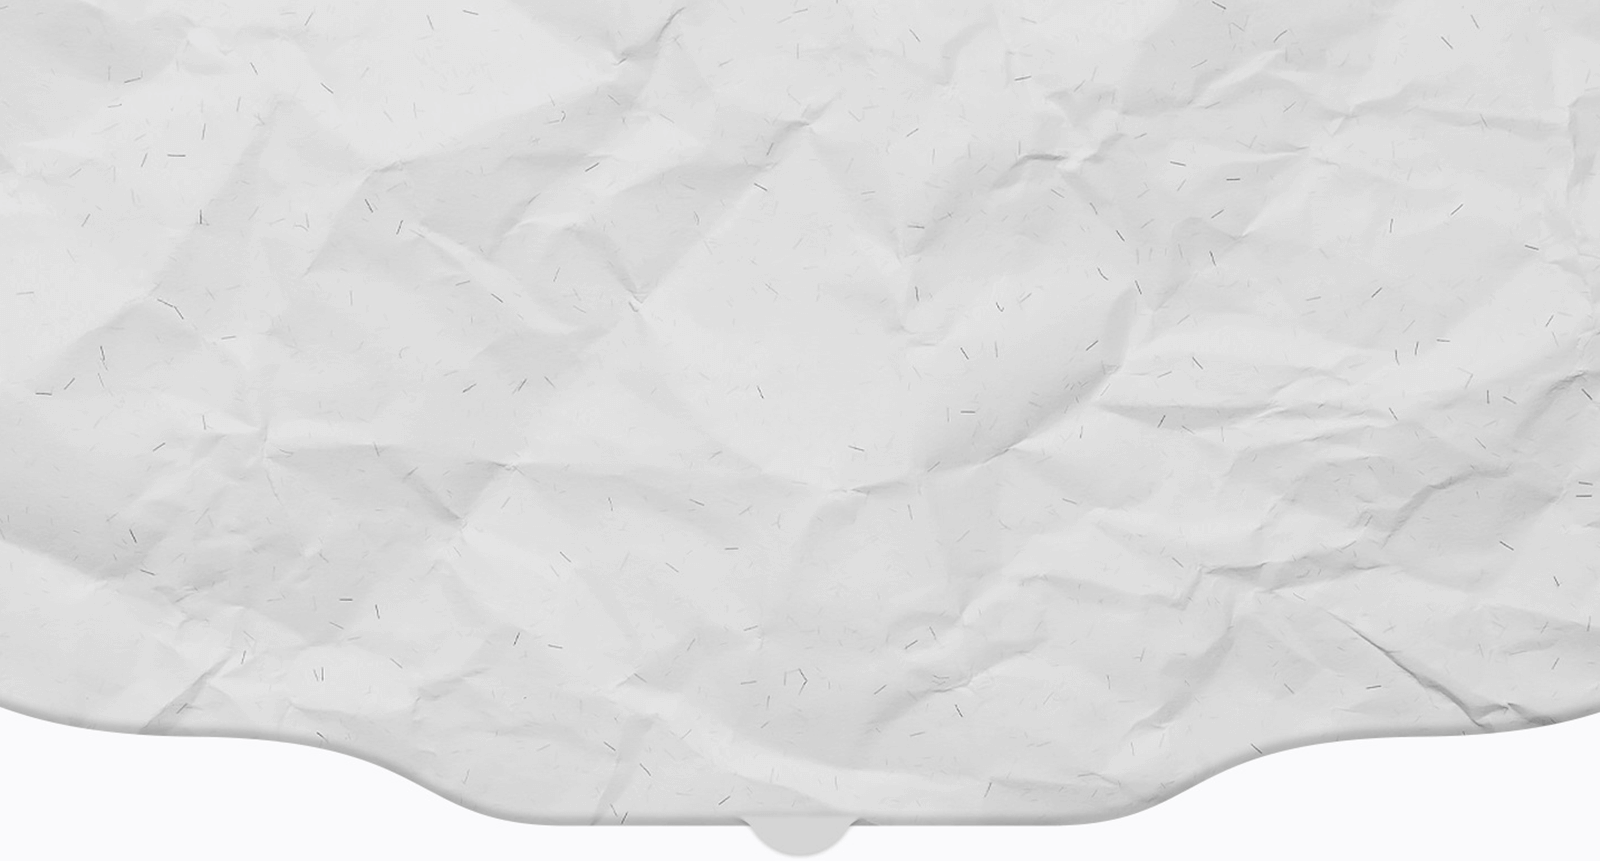
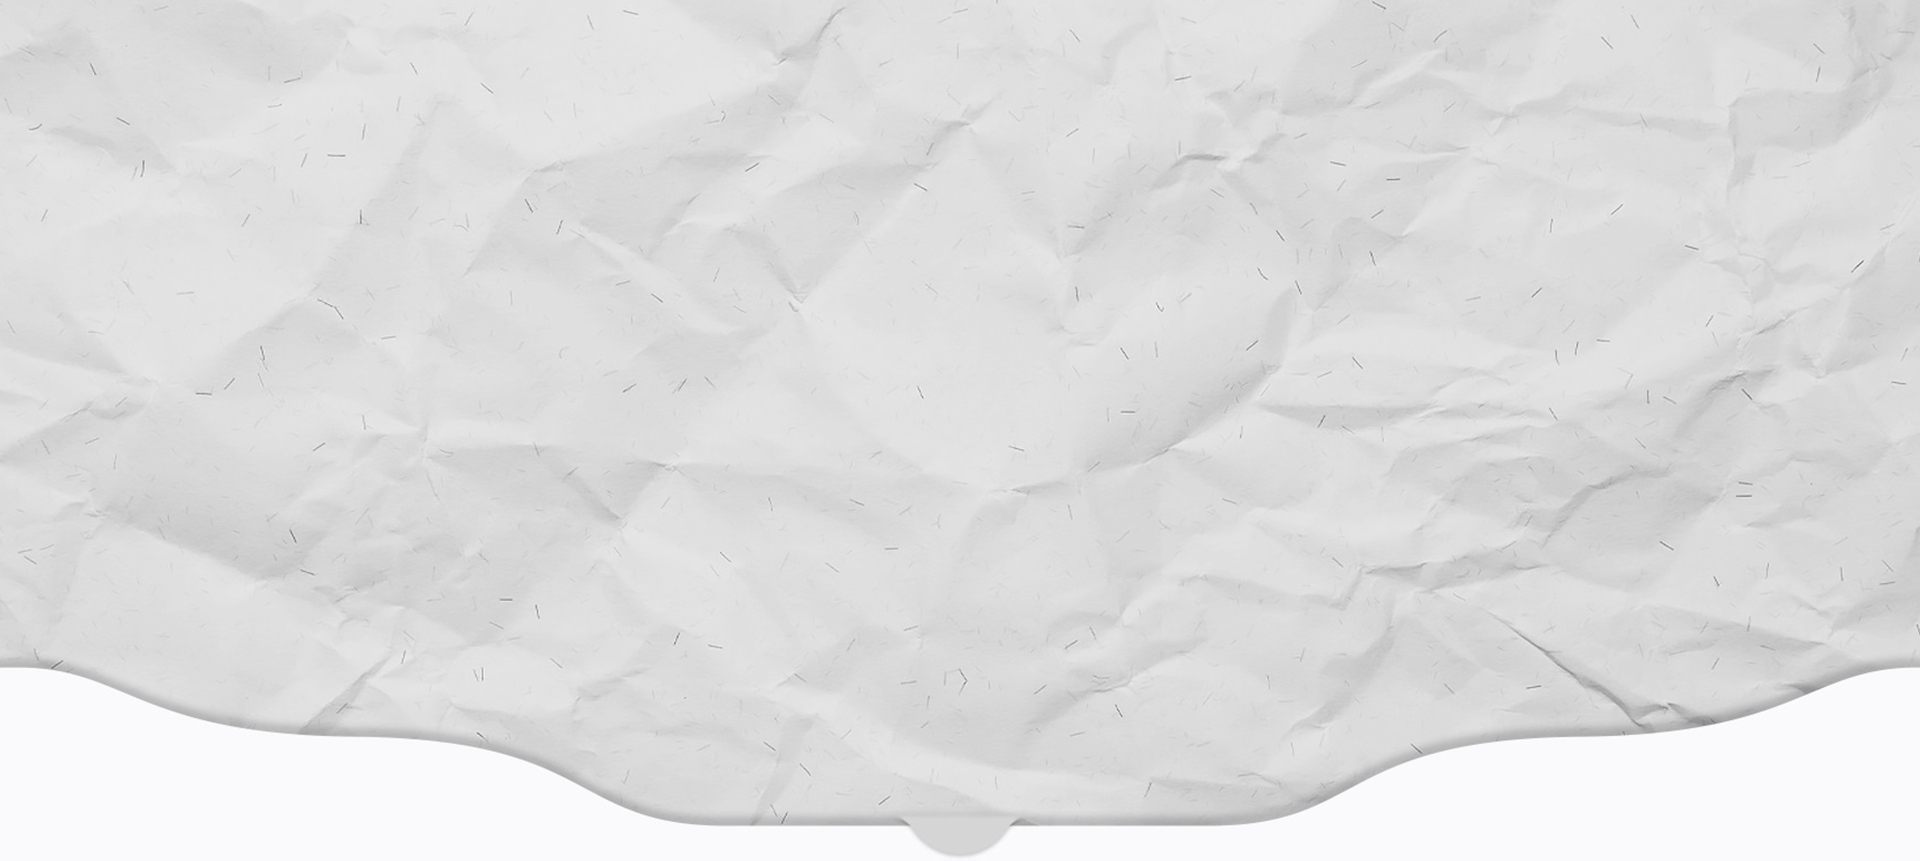
fix container

diff --git a/src/assets/styles/globals.scss b/src/assets/styles/globals.scss
@@ -1,6 +1,6 @@
 .container {
   position: relative;
-  max-width: 1600px;
+  max-width: 1920px;
   margin: 0 auto;
   // padding: 0 16px;
   width: 100%;
